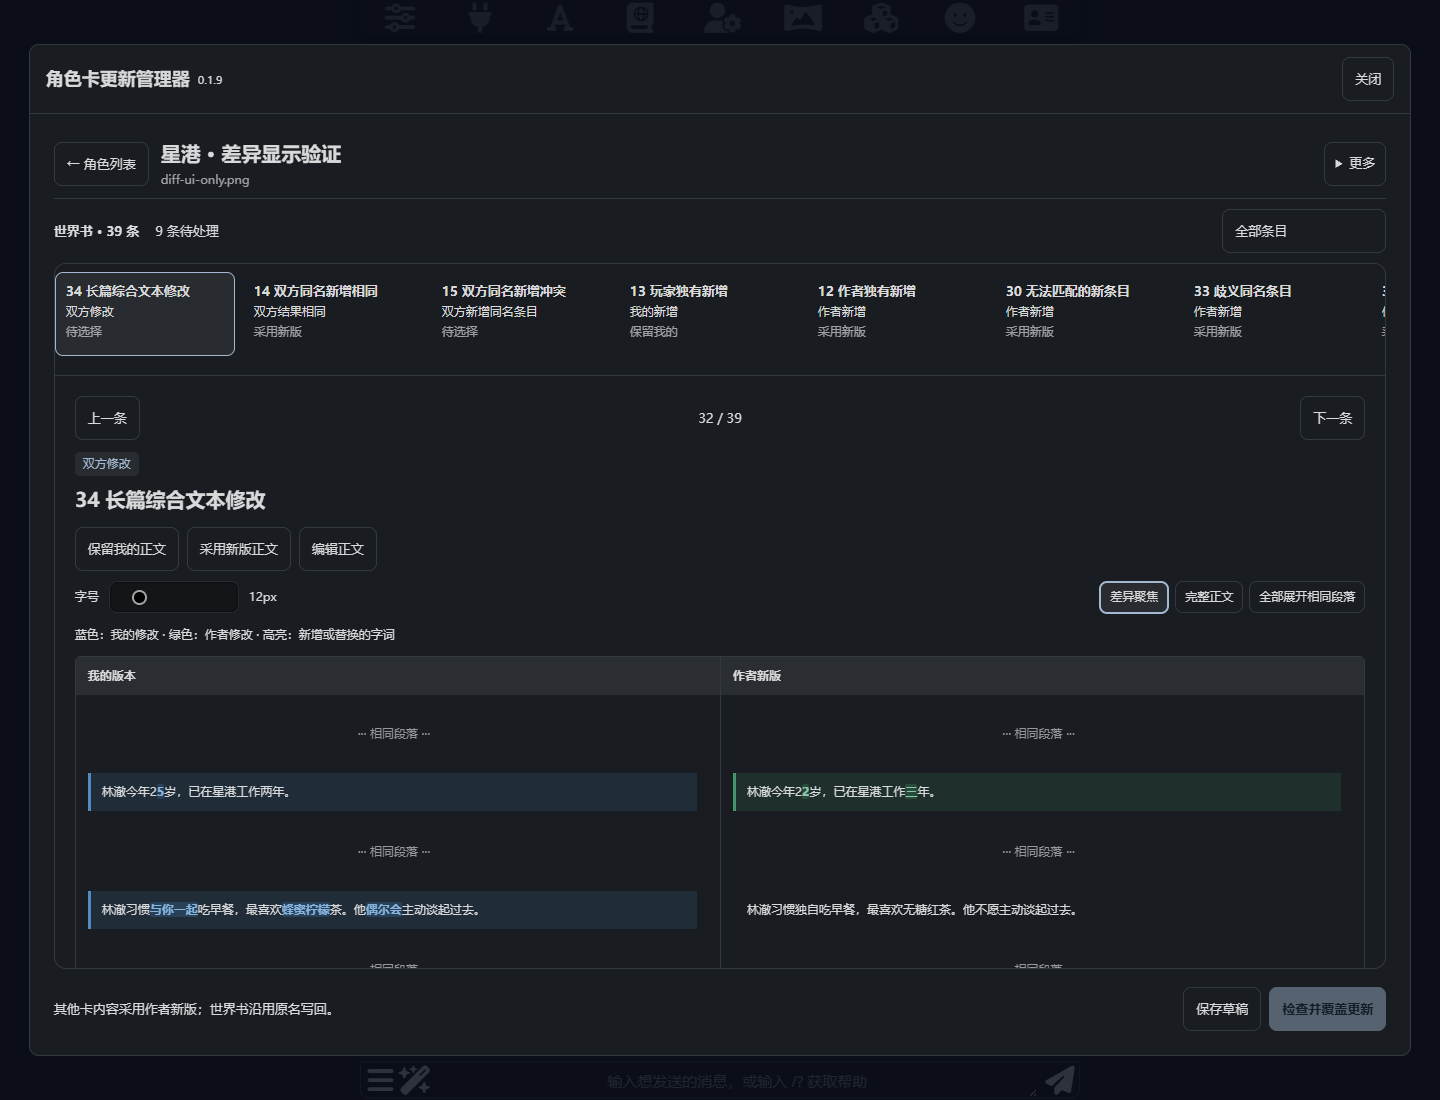
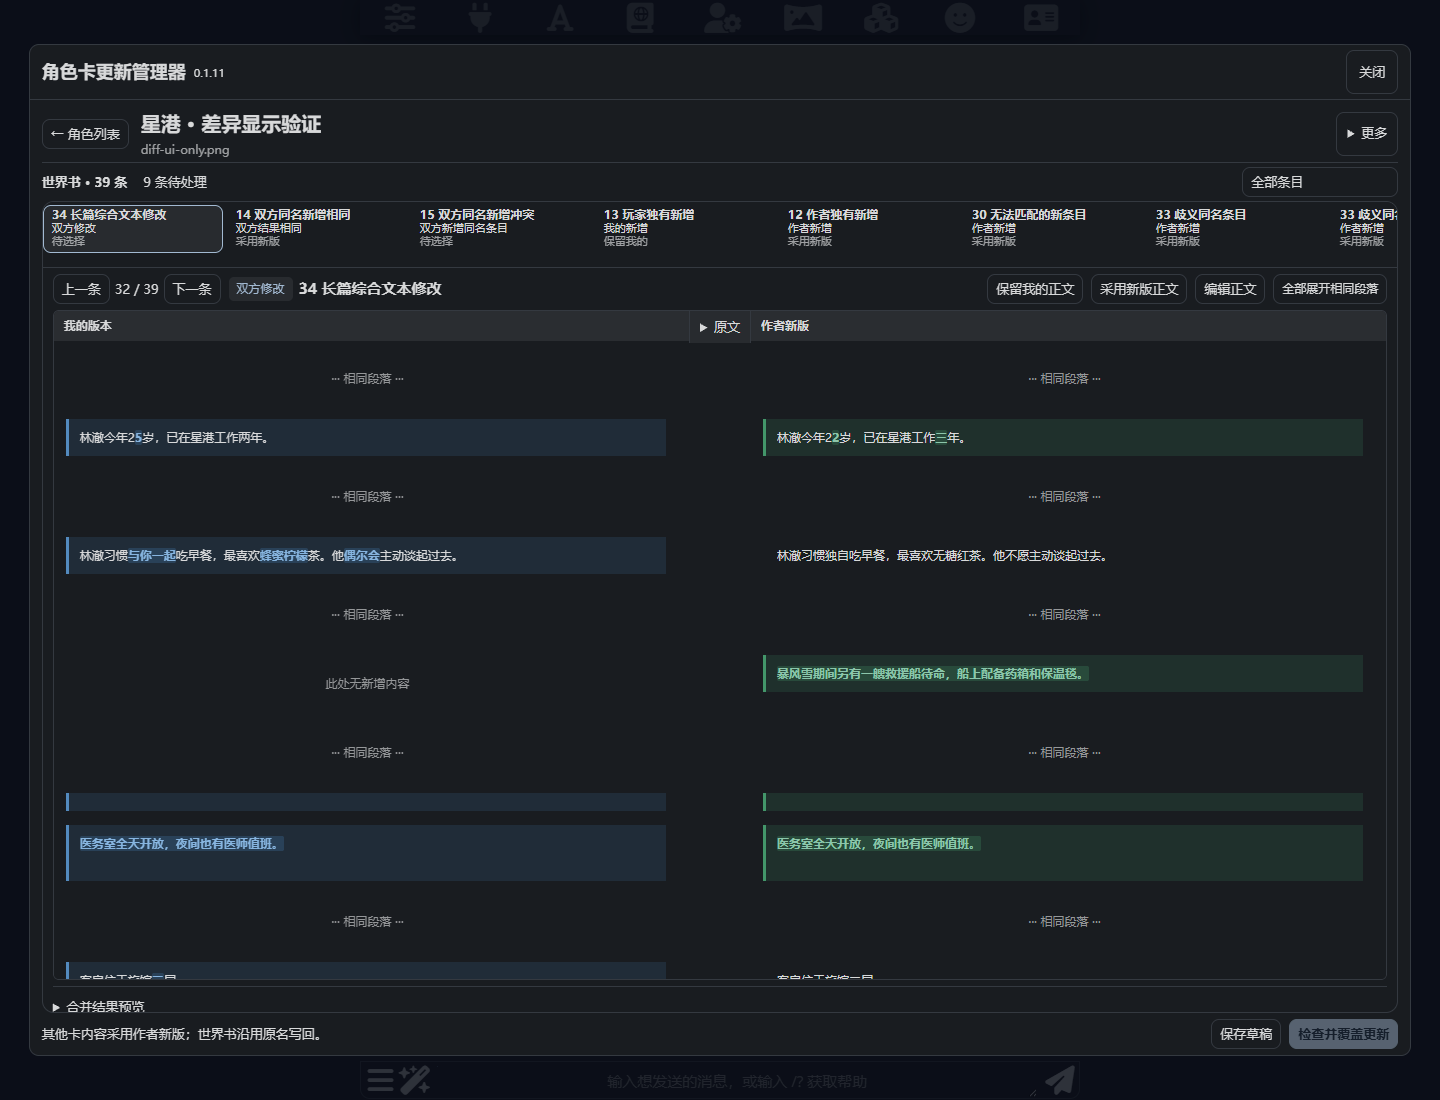
Jump between diff blocks, ignore punctuation and show the original inline

diff --git a/diff-view.js b/diff-view.js
@@ -1,5 +1,5 @@
 // Presentation only: no entry classification, choices, saved records or merge operations.
-import {sentenceDiff,textDiff} from './core.js';
+import {sameContent,sentenceDiff,textDiff} from './core.js';
 
 function sentenceEdits(before,after,position=0){
     return sentenceDiff(before,after).flatMap(part=>{
@@ -107,7 +107,7 @@ export function displayBlocks(base,mine,next,twoWay=false){
 
 function node(tag,className,text){const e=document.createElement(tag);e.className=className;if(text!==undefined)e.textContent=text;return e;}
 function button(text,action){const e=node('button','',text);e.type='button';e.addEventListener('click',action);return e;}
-export function createComparison(row,{twoWay=false,mode='focus',onMode=()=>{}}={}){
+export function createComparison(row,{twoWay=false}={}){
     const blocks=displayBlocks(row.base?.content,row.mine?.content,row.next?.content,twoWay);
     const expanded=new Set();
     const element=node('div','cum-comparison cum-diff-view');
@@ -124,29 +124,38 @@ export function createComparison(row,{twoWay=false,mode='focus',onMode=()=>{}}={
         });
     };
     const observer=new ResizeObserver(align);
-    function syncScroll(event){
-        if(mobile.matches)return;
-        const source=event.currentTarget;
-        const target=papers.find(paper=>paper!==source);
-        if(target&&Math.abs(target.scrollTop-source.scrollTop)>1)target.scrollTop=source.scrollTop;
+    function jumpTo(index,side){
+        const target=pairs[index]?.[1-side];
+        if(!target)return;
+        element.querySelector('.cum-diff-target')?.classList.remove('cum-diff-target');
+        target.classList.add('cum-diff-target');
+        if(mobile.matches)target.scrollIntoView({block:'center'});
+        else{
+            const paper=papers[1-side];
+            paper.scrollTop+=target.getBoundingClientRect().top-paper.getBoundingClientRect().top-12;
+        }
     }
     for(const [side,label]of [['mine',twoWay?'当前版本':'我的版本'],['next','作者新版']]){
         const panel=node('section','cum-text-panel cum-text-'+(side==='mine'?'mine':'author'));panel.setAttribute('aria-label',label);
         panel.append(node('h4','',label));
         const paper=node('div','cum-paper');paper.tabIndex=0;paper.role='region';paper.setAttribute('aria-label',label+'正文，可滚动');
         panel.append(paper);element.append(panel);papers.push(paper);
-        paper.addEventListener('scroll',syncScroll);
         observer.observe(paper);
     }
     const foldable=block=>block.kind==='same'&&(block.base.length>180||block.base.split('\n').length>5);
-    const focus=button('差异聚焦',()=>{mode='focus';onMode(mode);render();});
-    const full=button('完整正文',()=>{mode='full';onMode(mode);render();});
     const expand=button('全部展开相同段落',()=>{blocks.forEach((b,i)=>{if(foldable(b))expanded.add(i);});render();});
-    controls.append(focus,full,expand);
+    controls.append(expand);
+    if(!twoWay&&row.base&&['both','same'].includes(row.type)){
+        const original=node('details','cum-original');
+        original.append(node('summary','','原文'));
+        const paper=node('pre','cum-original-text',row.base.content);
+        paper.tabIndex=0;paper.setAttribute('aria-label','作者旧版原文');
+        original.append(paper);
+        element.insertBefore(original,element.lastElementChild);
+    }
     function render(){
         observer.disconnect();papers.forEach(p=>{p.replaceChildren();observer.observe(p);});pairs.length=0;
-        focus.setAttribute('aria-pressed',String(mode==='focus'));full.setAttribute('aria-pressed',String(mode==='full'));
-        expand.disabled=mode==='full'||!blocks.some((b,i)=>foldable(b)&&!expanded.has(i));
+        expand.disabled=!blocks.some((b,i)=>foldable(b)&&!expanded.has(i));
         blocks.forEach((block,index)=>{
             const pair=[];
             for(let sideIndex=0;sideIndex<2;sideIndex++){
@@ -154,29 +163,38 @@ export function createComparison(row,{twoWay=false,mode='focus',onMode=()=>{}}={
                 const wrapper=node('div','cum-diff-row');wrapper.dataset.block=String(index);
                 const content=node('div','cum-diff-block');
                 wrapper.append(content);pair.push(wrapper);
-                if(mode==='focus'&&foldable(block)&&!expanded.has(index)){
+                if(foldable(block)&&!expanded.has(index)){
                     const toggle=button('··· 相同段落 ···',()=>{expanded.add(index);render();});
                     toggle.className='cum-same-toggle';toggle.setAttribute('aria-expanded','false');content.append(toggle);
                 }else{
-                    const value=block[side],changed=block.kind==='change'&&(twoWay?block.mine!==block.next:value!==block.base);
-                    if(changed)content.classList.add('is-changed');
+                    const value=block[side],changed=block.kind==='change'&&(twoWay?!sameContent(block.mine,block.next):!sameContent(value,block.base));
+                    if(changed){
+                        content.classList.add('is-changed');
+                        content.tabIndex=0;
+                        content.setAttribute('role','button');
+                        content.setAttribute('aria-label','跳到另一栏的对应段落');
+                        content.addEventListener('click',()=>{if(!getSelection()?.toString())jumpTo(index,sideIndex);});
+                        content.addEventListener('keydown',event=>{
+                            if(event.key==='Enter'||event.key===' '){event.preventDefault();jumpTo(index,sideIndex);}
+                        });
+                    }
                     const text=node('div','cum-diff-text');
                     if(!value&&!block.base){text.append(node('span','cum-diff-placeholder',block.kind==='same'?'（空正文）':'此处无新增内容'));}
                     else if(!changed){text.append(node('span','cum-text-same',value));}
                     else if(twoWay){
                         for(const part of textDiff(block.mine,block.next)){
                             if(part.kind===(side==='mine'?'add':'remove'))continue;
-                            text.append(node('span',part.kind==='same'?'cum-text-same':'cum-diff-added',part.text));
+                            text.append(node('span',part.kind==='same'||sameContent(part.text,'')?'cum-text-same':'cum-diff-added',part.text));
                         }
                         if(!text.textContent)text.append(node('span','cum-diff-placeholder','此处无内容'));
                     }else{
                         for(const part of textDiff(block.base,value)){
                             if(part.kind==='remove')continue;
-                            text.append(node(part.kind==='add'?'ins':'span',part.kind==='add'?'cum-diff-added':'cum-text-same',part.text));
+                            text.append(node(part.kind==='add'?'ins':'span',part.kind==='add'&&!sameContent(part.text,'')?'cum-diff-added':'cum-text-same',part.text));
                         }
                     }
                     content.append(text);
-                    if(mode==='focus'&&foldable(block)){
+                    if(foldable(block)){
                         const toggle=button('收起相同段落',()=>{expanded.delete(index);render();});toggle.className='cum-same-toggle';toggle.setAttribute('aria-expanded','true');content.append(toggle);
                     }
                 }

diff --git a/ui.js b/ui.js
@@ -47,10 +47,10 @@ export class Manager {
         this.message=el('div',{class:'cum-message',role:'status','aria-live':'polite'});
         this.content=el('main',{class:'cum-content'});
         this.shell=el('div',{class:'cum-shell'},
-            el('header',{class:'cum-header'},el('div',{},el('span',{class:'cum-eyebrow'},'CARD UPDATE MANAGER'),el('h2',{id:'cum-title'},'角色卡更新管理器',el('span',{class:'cum-version'},'0.1.10'))),
+            el('header',{class:'cum-header'},el('div',{},el('span',{class:'cum-eyebrow'},'CARD UPDATE MANAGER'),el('h2',{id:'cum-title'},'角色卡更新管理器',el('span',{class:'cum-version'},'0.1.11'))),
                 button('关闭',()=>{if(!this.busy)this.dialog.close();},{class:'cum-quiet'})),this.message,this.content);
         this.dialog.append(this.shell);document.body.append(this.dialog);this.dialog.showModal();
-        const pref=await this.store.get('@preferences');this.fontSize=Math.min(20,Math.max(10,Number(pref?.fontSize)||12));this.dialog.style.setProperty('--cum-reading-size',this.fontSize+'px');await this.run(()=>card?this.selectCard(card):this.home());
+        await this.run(()=>card?this.selectCard(card):this.home());
     }
     async run(task){
         if(this.busy)return;
@@ -151,7 +151,7 @@ export class Manager {
     renderMerge(){
         this.content.classList.add('cum-merge-page');
         const s=this.state, pending=s.rows.filter(r=>!r.choice).length;
-        const filter=el('select',{'aria-label':'筛选条目'},el('option',{value:'changed'},'所有差异'),el('option',{value:'pending'},`待处理（${pending}）`),el('option',{value:'all'},'全部条目'));
+        const filter=el('select',{'aria-label':'筛选条目'},el('option',{value:'changed'},'按类型筛选'),el('option',{value:'pending'},`待处理（${pending}）`),el('option',{value:'all'},'全部条目'));
         for(const [key,label]of Object.entries(LABELS)){const count=s.rows.filter(r=>r.type===key).length;if(count)filter.append(el('option',{value:key},`${label}（${count}）`));}
         filter.value=s.filter;filter.addEventListener('change',()=>{s.filter=filter.value;s.detailSource=null;this.renderMerge();});
         this.list=el('aside',{class:'cum-entry-list','aria-label':'世界书条目'});this.detail=el('section',{class:'cum-detail','aria-label':'条目差异详情',tabindex:'-1'});
@@ -185,24 +185,17 @@ export class Manager {
         for(const r of this.state.rows)if(!r.choice)r.choice=choice;
         await this.saveDraft();this.renderMerge();
     }
-    fontControl(){
-        const output=el('output',{},this.fontSize+'px');
-        const input=el('input',{type:'range',min:'10',max:'20',step:'1',value:String(this.fontSize),'aria-label':'对比字号'});
-        input.addEventListener('input',()=>{this.fontSize=Number(input.value);output.textContent=this.fontSize+'px';this.dialog.style.setProperty('--cum-reading-size',this.fontSize+'px');});
-        input.addEventListener('change',()=>{this.store.put('@preferences',{fontSize:this.fontSize}).catch(e=>this.say('字号保存失败：'+e.message));});
-        return el('label',{class:'cum-font-control'},'字号',input,output);
-    }
     drawDetail(){
         this.comparisonView?.destroy();
         const s=this.state,r=s.rows[s.selected];this.detail.replaceChildren();
         if(!r){this.detail.append(el('p',{class:'cum-empty'},'当前筛选下没有正文差异。可在条目列表选择“全部条目”查看。'));return;}
-        this.comparisonView=createComparison(r,{twoWay:!!s.twoWay,mode:this.diffMode??'focus',onMode:mode=>{this.diffMode=mode;}});
+        this.comparisonView=createComparison(r,{twoWay:!!s.twoWay});
         const choose=choice=>this.run(async()=>{r.choice=choice;await this.saveDraft();this.renderMerge();});
         const at=this.visibleRows.indexOf(s.selected);
-        this.detail.append(el('div',{class:'cum-entry-nav'},button('上一条',()=>this.selectEntry(this.visibleRows[at-1]),{disabled:at<=0}),el('span',{},`${at+1} / ${this.visibleRows.length}`),button('下一条',()=>this.selectEntry(this.visibleRows[at+1]),{disabled:at>=this.visibleRows.length-1})),
+        this.detail.append(el('div',{class:'cum-detail-tools'},el('div',{class:'cum-entry-nav'},button('上一条',()=>this.selectEntry(this.visibleRows[at-1]),{disabled:at<=0}),el('span',{},`${at+1} / ${this.visibleRows.length}`),button('下一条',()=>this.selectEntry(this.visibleRows[at+1]),{disabled:at>=this.visibleRows.length-1})),
             el('div',{class:'cum-detail-heading'},el('span',{class:'cum-badge'},LABELS[r.type]),el('h3',{},r.title)),
             el('div',{class:'cum-actions'},button(s.twoWay?(r.mine?'保留当前正文':'当前版不含此条目'):r.mine?'保留我的正文':'保留我的删除',()=>choose('mine'),{'aria-pressed':String(r.choice==='mine')}),button(s.twoWay?(r.next?'采用新版正文':'新版不含此条目'):r.next?'采用新版正文':'接受新版删除',()=>choose('next'),{'aria-pressed':String(r.choice==='next')}),r.mine||r.next?button('编辑正文',()=>this.editFields(r)):null),
-            el('div',{class:'cum-display-toolbar'},this.fontControl(),this.comparisonView.controls),el('p',{class:'cum-text-legend'},s.twoWay?'蓝底：当前版差异 · 绿底：新版差异；底色不代表修改来源。':'蓝色：我的修改 · 绿色：作者修改 · 高亮：新增或替换的字词'),
+            el('div',{class:'cum-display-toolbar'},this.comparisonView.controls)),
             this.comparisonView.element);
         const entry=r.choice?selectedEntry(r):undefined;
         this.detail.append(el('details',{class:'cum-result-preview'},el('summary',{},'合并结果预览'),el('pre',{class:'cum-result-content'},r.choice?(entry?.content??'（删除此条目）'):'尚未选择')));

diff --git a/style.css b/style.css
@@ -193,3 +193,36 @@
  .cum-dialog .cum-diff-view .cum-diff-block{padding:8px}
  .cum-dialog .cum-diff-controls button{min-height:36px}
 }
+
+.cum-dialog .cum-diff-view .is-changed{cursor:pointer}
+.cum-dialog .cum-diff-view .cum-diff-target>.cum-diff-block{outline:1px solid var(--cum-accent);outline-offset:-1px}
+.cum-dialog .cum-diff-view .cum-original{min-width:0;margin:0;padding:0;border:0;background:var(--cum-panel)}
+.cum-dialog .cum-original summary{padding:8px 10px;white-space:nowrap;background:var(--cum-button)}
+.cum-dialog .cum-original-text{margin:0;padding:12px;height:clamp(240px,58dvh,650px);max-height:none;overflow:auto;background:var(--cum-panel);color:var(--cum-text);font:12px/1.6 system-ui,'Microsoft YaHei',sans-serif;overscroll-behavior:contain}
+@media(min-width:761px) and (min-height:501px),(min-width:1001px){
+ .cum-dialog:has(.cum-merge-page) .cum-header{padding:5px 12px}
+ .cum-dialog .cum-merge-page{padding:8px 12px 0}
+ .cum-merge-page>.cum-heading{margin-bottom:2px}
+ .cum-merge-page .cum-toolbar{padding:4px 0}
+ .cum-dialog .cum-merge-page :is(button,select){min-height:30px;padding:4px 8px}
+ .cum-merge-page .cum-workspace{grid-template-rows:66px minmax(0,1fr)}
+ .cum-merge-page .cum-entry-list{padding:3px 6px;gap:4px}
+ .cum-dialog .cum-entry-list button.cum-entry{height:48px;gap:0;padding:2px 8px;font-size:12px;line-height:1.2}
+ .cum-entry-list .cum-entry span,.cum-entry-list .cum-entry small{font-size:11px}
+ .cum-merge-page .cum-detail{padding:6px 10px}
+ .cum-detail-tools{display:flex;align-items:center;gap:8px;flex-wrap:wrap}
+ .cum-detail-tools :is(.cum-entry-nav,.cum-display-toolbar){margin:0;gap:5px}
+ .cum-detail-tools .cum-detail-heading{display:flex;align-items:center;gap:6px;margin-right:auto}
+ .cum-detail-tools .cum-detail-heading h3{margin:0;font-size:15px}
+ .cum-dialog .cum-diff-view{margin:6px 0}
+ .cum-dialog .cum-diff-view .cum-paper{height:clamp(240px,58dvh,650px)}
+ .cum-dialog .cum-diff-view:has(.cum-original){grid-template-columns:minmax(0,1fr) auto minmax(0,1fr)}
+ .cum-dialog .cum-diff-view:has(.cum-original[open]){grid-template-columns:repeat(3,minmax(0,1fr))}
+ .cum-dialog .cum-diff-view .cum-original{border-inline:1px solid var(--cum-border)}
+ .cum-dialog .cum-diff-view :is(h4,.cum-original summary){padding:6px 10px;min-height:30px}
+ .cum-merge-page .cum-footer{padding:6px 0}
+}
+@media(max-width:760px),(max-height:500px) and (max-width:1000px){
+ .cum-dialog .cum-diff-view .cum-original{border-block:1px solid var(--cum-border)}
+ .cum-dialog .cum-original-text{height:clamp(160px,30dvh,280px)}
+}

diff --git a/core.js b/core.js
@@ -64,10 +64,14 @@ export const LABELS = {
     bothDeleted:'双方删除', additionConflict:'双方新增同名条目',
     different:'正文不同', currentOnly:'仅当前版存在', newOnly:'仅新版存在',
 };
+export function sameContent(a,b){
+    return a===b||a.replace(/\p{P}/gu,'')===b.replace(/\p{P}/gu,'');
+}
+
 export function buildTwoWayRows(mine,next){
     const map=matchEntries(mine,next),used=new Set(map),rows=[];
     const add=(m,n,id)=>{
-        const type=!m?'newOnly':!n?'currentOnly':m.content===n.content?'unchanged':'different';
+        const type=!m?'newOnly':!n?'currentOnly':sameContent(m.content,n.content)?'unchanged':'different';
         rows.push({id,mine:copy(m),next:copy(n),type,choice:type==='unchanged'?'next':null,title:n?.comment||m?.comment||`未命名条目 ${id}`});
     };
     mine.forEach((m,i)=>add(m,next[map[i]],`m${i}`));
@@ -75,12 +79,12 @@ export function buildTwoWayRows(mine,next){
     return rows;
 }
 export function classify(base, mine, next) {
-    if (!base) return mine && next ? (mine.content===next.content ? 'same':'additionConflict') : mine ? 'mineAdded':'authorAdded';
+    if (!base) return mine && next ? (sameContent(mine.content,next.content) ? 'same':'additionConflict') : mine ? 'mineAdded':'authorAdded';
     if (!mine && !next) return 'bothDeleted';
-    if (!mine) return base.content===next.content ? 'mineDeleted':'both';
-    if (!next) return base.content===mine.content ? 'authorDeleted':'both';
-    const m = base.content!==mine.content, n = base.content!==next.content;
-    return !m && !n ? 'unchanged' : m && n ? (mine.content===next.content ? 'same':'both') : m ? 'mine':'author';
+    if (!mine) return sameContent(base.content,next.content) ? 'mineDeleted':'both';
+    if (!next) return sameContent(base.content,mine.content) ? 'authorDeleted':'both';
+    const m = !sameContent(base.content,mine.content), n = !sameContent(base.content,next.content);
+    return !m && !n ? 'unchanged' : m && n ? (sameContent(mine.content,next.content) ? 'same':'both') : m ? 'mine':'author';
 }
 export function buildRows(base, mine, next, maps = {}) {
     const mm = maps.mine ?? matchEntries(base,mine), nm = maps.next ?? matchEntries(base,next);

diff --git a/tests/core.test.js b/tests/core.test.js
@@ -2,6 +2,15 @@ import test from 'node:test';
 import assert from 'node:assert/strict';
 import {buildRows,buildTwoWayRows,matchEntries,assembleWorld,selectedEntry,cleanEntry,toCharacterBook,normalizeCardWorld,lineDiff,textDiff,sentenceDiff} from '../core.js';
 const entry=(comment,content,extra={})=>({uid:0,comment,content,key:[comment],disable:false,order:100,extensions:{},...extra});
+test('纯标点变化不计为差异，正文和换行变化仍可识别',()=>{
+ const base=entry('设定','你好，世界！'),mine=entry('设定','你好,世界。');
+ assert.equal(buildRows([base],[mine],[base])[0].type,'unchanged');
+ assert.equal(buildTwoWayRows([mine],[base])[0].type,'unchanged');
+ const next=entry('设定','你好，星港！');
+ const row=buildRows([base],[mine],[next])[0];
+ assert.equal(row.type,'author');assert.equal(selectedEntry(row).content,next.content);
+ assert.equal(buildTwoWayRows([base],[entry('设定','你好，\n世界！')])[0].type,'different');
+});
 test('无旧版：差异均待决定，配置差异忽略，不推断新增删除来源',()=>{
  const mine=[entry('相同','same'),entry('差异','current'),entry('独有','private')];
  const next=[entry('相同','same',{disable:true}),entry('差异','updated'),entry('新版独有','new')];

diff --git a/README.md b/README.md
@@ -2,7 +2,7 @@
 
 在 SillyTavern 中先比较作者新版与个人修改，选择保留内容，再覆盖更新角色卡。
 
-**0.1.10**。独立前端扩展，不依赖酒馆助手，不需要额外模型 API 或服务器插件。
+**0.1.11**。独立前端扩展，不依赖酒馆助手，不需要额外模型 API 或服务器插件。
 
 ![使用虚构测试卡展示的差异面板](docs/preview.png)
 
@@ -19,7 +19,7 @@ https://github.com/adelia1017/sillytavern-card-update-manager
 安装后刷新页面，从「扩展设置 → 角色卡更新管理器」打开，也可从聊天区的扩展菜单进入，或在角色详情「更多 → 对比并更新」直接打开该角色。
 后续通过酒馆扩展管理中的更新按钮获取更新，再刷新页面。不需要 npm install 或编译。
 
-手机端点击条目进入详情：手机上下、电脑左右显示「我的版本」和「作者新版」，两者分别对照作者旧原版。正文框固定尺寸，电脑双栏同步滚动，手机上下各自滚动，背景与字色跟随酒馆深浅主题，我的改动用蓝底、作者改动用绿底标记；修改区使用浅色背景块与左侧细线，正文只展示该版本的最终文本，新增或替换字词使用更鲜明的局部底色与字色，不插入已删除的旧文字。正文默认 12px，可用字号滑块调整并记忆。更新并刷新后，标题旁应显示 `0.1.10`。
+手机端点击条目进入详情：手机上下、电脑左右显示「我的版本」和「作者新版」，两者分别对照作者旧原版。正文框固定尺寸，两栏各自滚动，点击高亮区跳到另一栏对应段落，背景与字色跟随酒馆深浅主题，我的改动用蓝底、作者改动用绿底标记；修改区使用浅色背景块与左侧细线，正文只展示该版本的最终文本，新增或替换字词使用更鲜明的局部底色与字色，不插入已删除的旧文字。正文固定 12px。更新并刷新后，标题旁应显示 `0.1.11`。
 
 只比较和合并正文。开关、蓝绿灯、关键词、顺序等配置不计入差异，也不随正文选择迁移，已有条目采用作者新版配置；只在个人版本存在的新增条目保留其配置。
 
@@ -119,3 +119,7 @@ MIT License。
 ## 0.1.9 连续阅读
 
 差异块只展示对应版本的最终正文，保留换行、段落、列表和空白，不再把旧文字以删除线插入正文。蓝绿低饱和背景和左侧色条定位修改区域，局部更深底色与高亮字色标记新增或替换的字词。纯删除处不显示旧字，留下空白的对应位置；修改密度不影响显示规则。相同段落折叠、显示模式、对齐、合并预览及操作保持原有功能。仅显示层调整。
+
+## 0.1.11
+
+纯标点变化不计入正文差异。双方修改的条目可在两版中间展开作者旧版原文。筛选默认显示「按类型筛选」，桌面工具区更紧凑。
